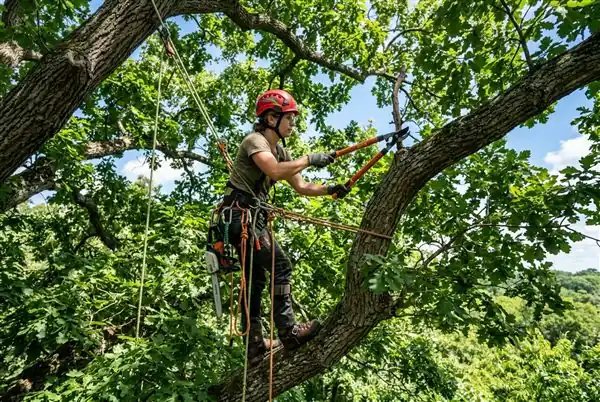
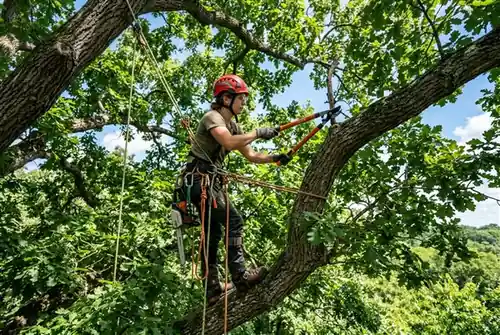
Performance: shrink local estate.avif to 8KB and service_pruning.avif to 18KB

diff --git a/src/App.jsx b/src/App.jsx
@@ -240,9 +240,9 @@ export default function App() {
       title: "Precision Tree Pruning & Trimming",
       desc: "Proper pruning helps trees grow stronger while improving their overall appearance and safety. Our crew uses ISA canopy techniques to shape your trees beautifully.",
       icon: "pruning",
-      img: "assets/service_pruning.jpg?v=5",
-      imgWebp: "assets/service_pruning.webp?v=1",
-      imgAvif: "assets/service_pruning.avif?v=1",
+      img: "assets/service_pruning.jpg?v=6",
+      imgWebp: "assets/service_pruning.webp?v=2",
+      imgAvif: "assets/service_pruning.avif?v=2",
       points: [
         "Crown thinning for improved air & light flow",
         "Deadwooding and safety clearing of heavy branches",
@@ -441,9 +441,9 @@ export default function App() {
             
             <div className="hero-secondary-card">
               <picture>
-                <source srcSet="assets/estate.avif?v=1" type="image/avif" />
-                <source srcSet="assets/estate.webp?v=1" type="image/webp" />
-                <img src="assets/estate.jpg?v=3" alt="Beautiful Estate Tree Care" width="800" height="446" />
+                <source srcSet="assets/estate.avif?v=2" type="image/avif" />
+                <source srcSet="assets/estate.webp?v=2" type="image/webp" />
+                <img src="assets/estate.jpg?v=4" alt="Beautiful Estate Tree Care" width="800" height="446" />
               </picture>
               <div className="hero-secondary-badge">
                 <span>✓ Property Care Excellence</span>
@@ -457,7 +457,7 @@ export default function App() {
       <div id="about" className="about-page-wrapper">
         
         {/* SUB-SECTION 1: HERO */}
-        <div className="about-hero" style={{ backgroundImage: "image-set(url('assets/estate.avif?v=1') type('image/avif'), url('assets/estate.webp?v=1') type('image/webp'), url('assets/estate.jpg?v=3') type('image/jpeg'))" }}>
+        <div className="about-hero" style={{ backgroundImage: "image-set(url('assets/estate.avif?v=2') type('image/avif'), url('assets/estate.webp?v=2') type('image/webp'), url('assets/estate.jpg?v=4') type('image/jpeg'))" }}>
           <div className="about-hero-overlay"></div>
           <div className="about-hero-content container">
             <h1 className="about-hero-title">Growing Strong Trees.<br/>Building Lasting Trust.</h1>
